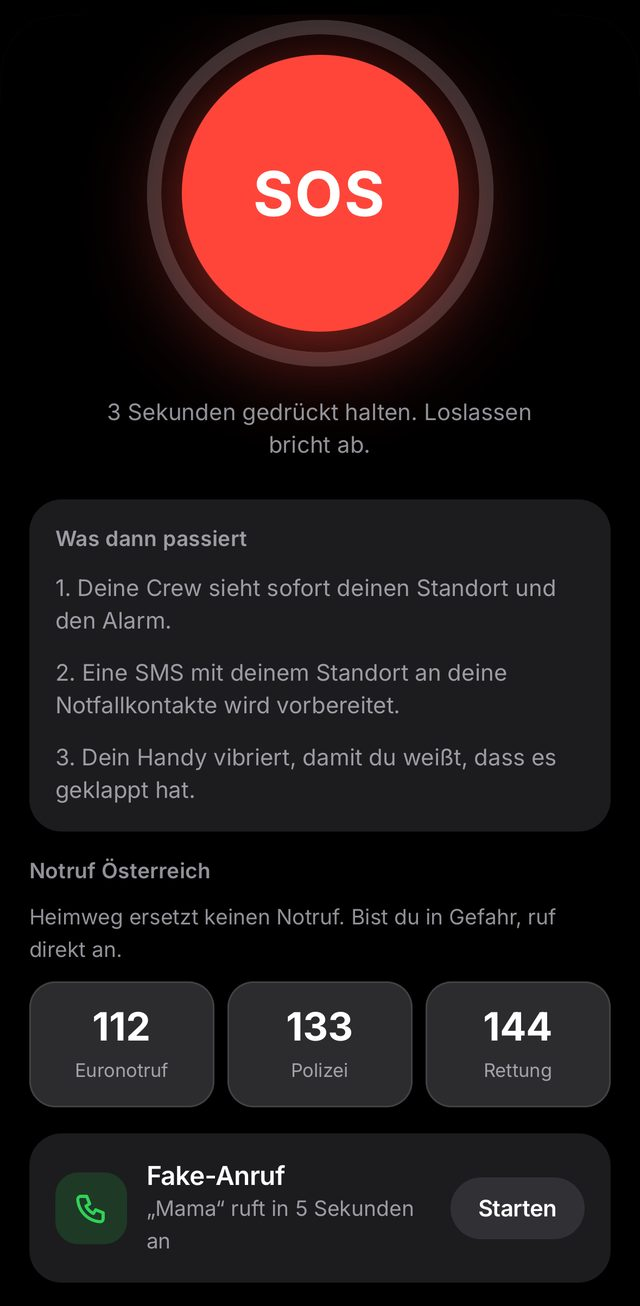
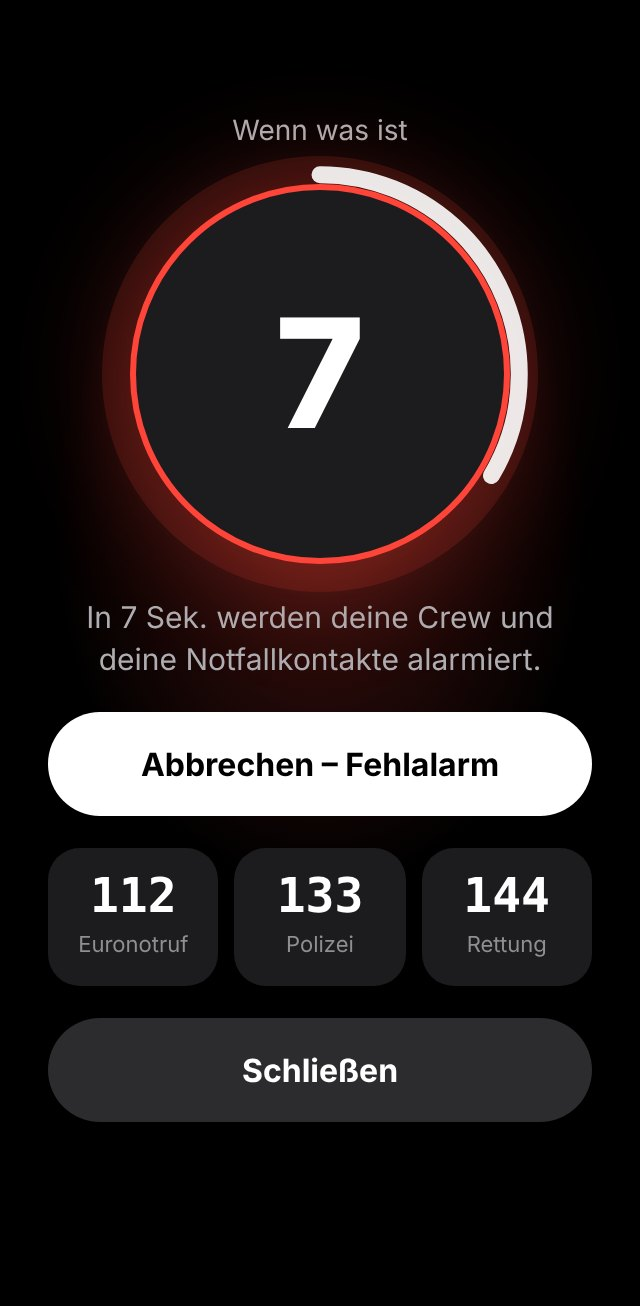
Neues SOS-Bild mit Countdown
Claude-Session: https://claude.ai/code/session_01UFfGAC6jfMs6akGvA7ZFZg

diff --git a/index.html b/index.html
@@ -425,7 +425,7 @@ footer .brand{font-size:18px;color:var(--fg);margin-right:auto}
           <p>Das Navi sagt dir jede Abzweigung an und nimmt zu Fuß die hellen Straßen. Deine Crew sieht, dass du unterwegs bist, und niemand muss dafür wach bleiben.</p>
         </div>
         <div class="chapter alarm" data-step="2">
-          <img class="mshot" src="sos.jpg" alt="SOS-Bildschirm" loading="lazy">
+          <img class="mshot" src="sos.jpg" alt="SOS-Countdown: 10 Sekunden zum Abbrechen" loading="lazy">
           <span class="k">03 · WENN WAS IST</span>
           <h3>Einmal tippen.</h3>
           <p>SOS startet einen 10-Sekunden-Countdown. Fehlalarm? Einfach abbrechen. Danach sieht deine Crew sofort deinen Standort, und deine Notfallkontakte bekommen eine SMS. Stürzt du, startet der Countdown von selbst.</p>
@@ -446,7 +446,7 @@ footer .brand{font-size:18px;color:var(--fg);margin-right:auto}
 
             <div class="view on" data-view="0"><div class="shot"><img src="heimweg-starten.jpg" alt="Heimweg starten: wohin, wie und wann"></div></div>
             <div class="view" data-view="1"><div class="shot"><img src="navi.jpg" alt="Navigation zu Fuß nach Hause"></div></div>
-            <div class="view" data-view="2"><div class="shot"><img src="sos.jpg" alt="SOS-Knopf mit Notrufnummern"></div></div>
+            <div class="view" data-view="2"><div class="shot"><img src="sos.jpg" alt="SOS-Countdown mit Abbrechen-Knopf und Notrufnummern"></div></div>
             <div class="view" data-view="3"><div class="shot"><img src="angekommen.jpg" alt="Gut angekommen: die Crew bekommt ein Häkchen"></div></div>
           </div>
         </div>
